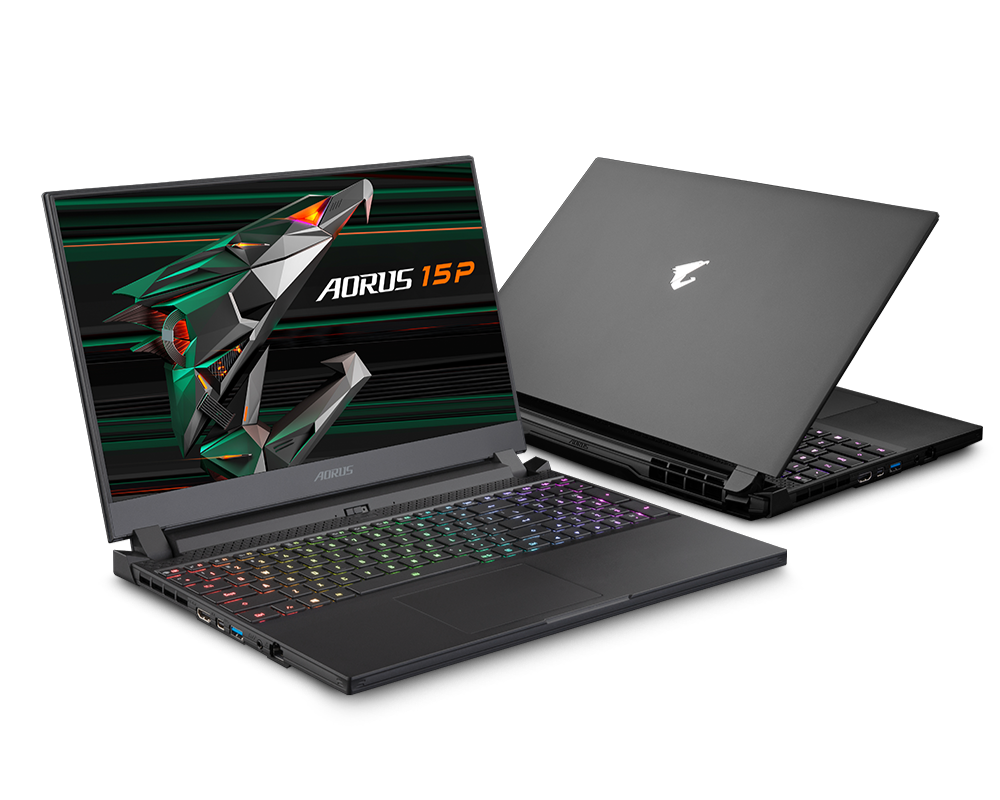
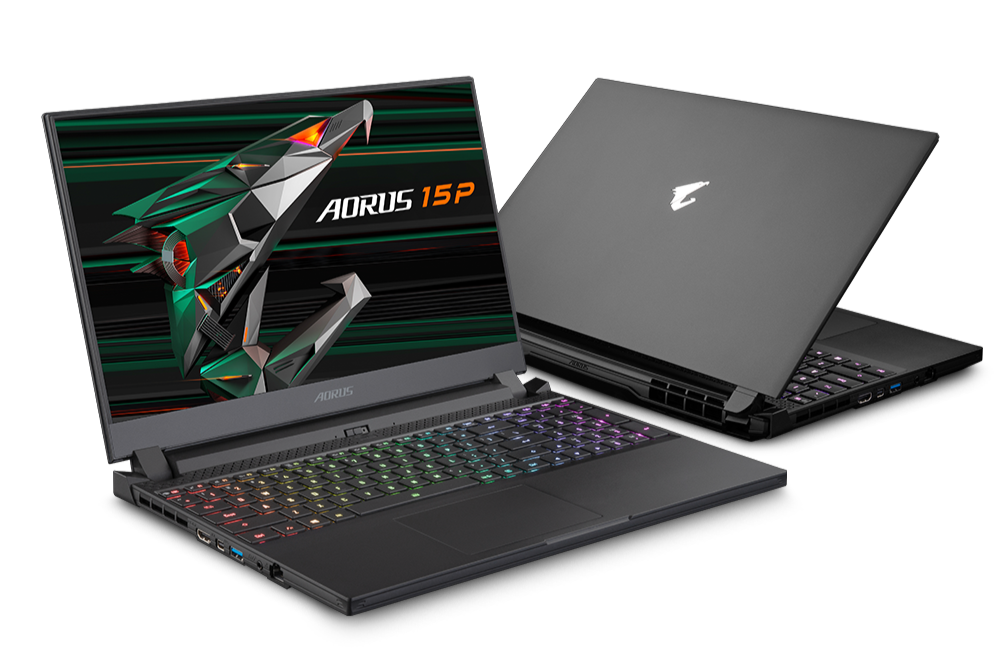
Update - 06/05/2023 - 18:44 PM

Changed region(s): [[0.031, 0.09, 0.992, 0.9595], [0.651, 0.2699, 0.713, 0.3598]]

diff --git a/MyWeb/1-product.html b/MyWeb/1-product.html
@@ -371,7 +371,42 @@
             <div class="one-product-info">
                 <div class="top-1-product-info">
                     <div class="image-slider">
-                        SLIDER
+                        <div id="carouselExampleAutoplaying" class="carousel slide" data-bs-ride="carousel">    
+                            <div class="carousel-inner">
+                                <div class="carousel-item active">
+                                    <img src="One-Product-Page-images/gigabyte_aorus_15p__1.png" class="d-block w-100" alt="...">
+                                </div>
+                                <div class="carousel-item">
+                                    <img src="One-Product-Page-images/gigabyte_aorus_15p__2.png" class="d-block w-100" alt="...">
+                                </div>
+                                <div class="carousel-item">
+                                    <img src="One-Product-Page-images/gigabyte_aorus_15p__3.png" class="d-block w-100" alt="...">
+                                </div>
+                                <div class="carousel-item">
+                                    <img src="One-Product-Page-images/gigabyte_aorus_15p__4.png" class="d-block w-100" alt="...">
+                                </div>
+                                <div class="carousel-item">
+                                    <img src="One-Product-Page-images/gigabyte_aorus_15p__5.png" class="d-block w-100" alt="...">
+                                </div>
+                            </div>
+                            <div class="carousel-indicators">
+                                <button type="button" data-bs-target="#carouselExampleAutoplaying" data-bs-slide-to="0" class="active">
+                                    <img src="One-Product-Page-images/gigabyte_aorus_15p__1.png" class="d-block w-100" alt="...">
+                                </button>
+                                <button type="button" data-bs-target="#carouselExampleAutoplaying" data-bs-slide-to="1">
+                                    <img src="One-Product-Page-images/gigabyte_aorus_15p__2.png" class="d-block w-100" alt="...">
+                                </button>
+                                <button type="button" data-bs-target="#carouselExampleAutoplaying" data-bs-slide-to="2">
+                                    <img src="One-Product-Page-images/gigabyte_aorus_15p__3.png" class="d-block w-100" alt="...">
+                                </button>
+                                <button type="button" data-bs-target="#carouselExampleAutoplaying" data-bs-slide-to="3">
+                                    <img src="One-Product-Page-images/gigabyte_aorus_15p__4.png" class="d-block w-100" alt="...">
+                                </button>
+                                <button type="button" data-bs-target="#carouselExampleAutoplaying" data-bs-slide-to="4">
+                                    <img src="One-Product-Page-images/gigabyte_aorus_15p__5.png" class="d-block w-100" alt="...">
+                                </button>
+                            </div>
+                        </div>
                     </div>
                     <div class="product-parameter">
                         <h1>Laptop Gigabyte AORUS 15P KD 72S1223GO</h1>

diff --git a/MyWeb/style.css b/MyWeb/style.css
@@ -1187,13 +1187,32 @@ header {
 
 .image-slider {
     width: 50%;
-    padding: 0.8rem;
+    padding: 0;
+}
+
+.image-slider .carousel {
+    margin: 0 0 18% 0;
+    width: 100%;
+    position: relative;
+}
+
+.image-slider .carousel .carousel-indicators {
+    bottom: -12%;
+    margin: 0;
+}
+
+.image-slider .carousel .carousel-indicators button {
+    width: 10rem;
+}
+
+.image-slider .carousel .carousel-indicators button img {
     border: 1px solid white;
+    padding: 0.2rem;
 }
 
 .product-parameter {
     width: 50%;
-    padding: 0 0 0 1rem;
+    padding: 0 0 0 1.5rem;
 }
 
 .product-parameter h1 {
@@ -1351,6 +1370,7 @@ header {
 
 .one-product-another-infomation img {
     width: 45%;
+    margin: 3rem 0 3rem 0;
 }
 
 /*Footer -------------------------------------------------------------------------*/
@@ -2152,6 +2172,23 @@ footer *{
     .product-list-product-page {
         grid-template-columns: auto auto auto;
     }
+
+    /*1 product page -------------------------------------------------------------- */
+    .top-1-product-info {
+        flex-direction: row;
+    }
+
+    .product-parameter {
+        padding-left: 0.5rem;
+    }
+
+    .one-product-infomation table {
+        width: 100%;
+    }
+
+    .buy-product-or-add-to-cart button:not(:nth-child(2)) {
+        margin: 1rem 0 0 0;
+    }   
 
     /*Footer ----------------------------------------------------------- */
     .top-footer > p {
